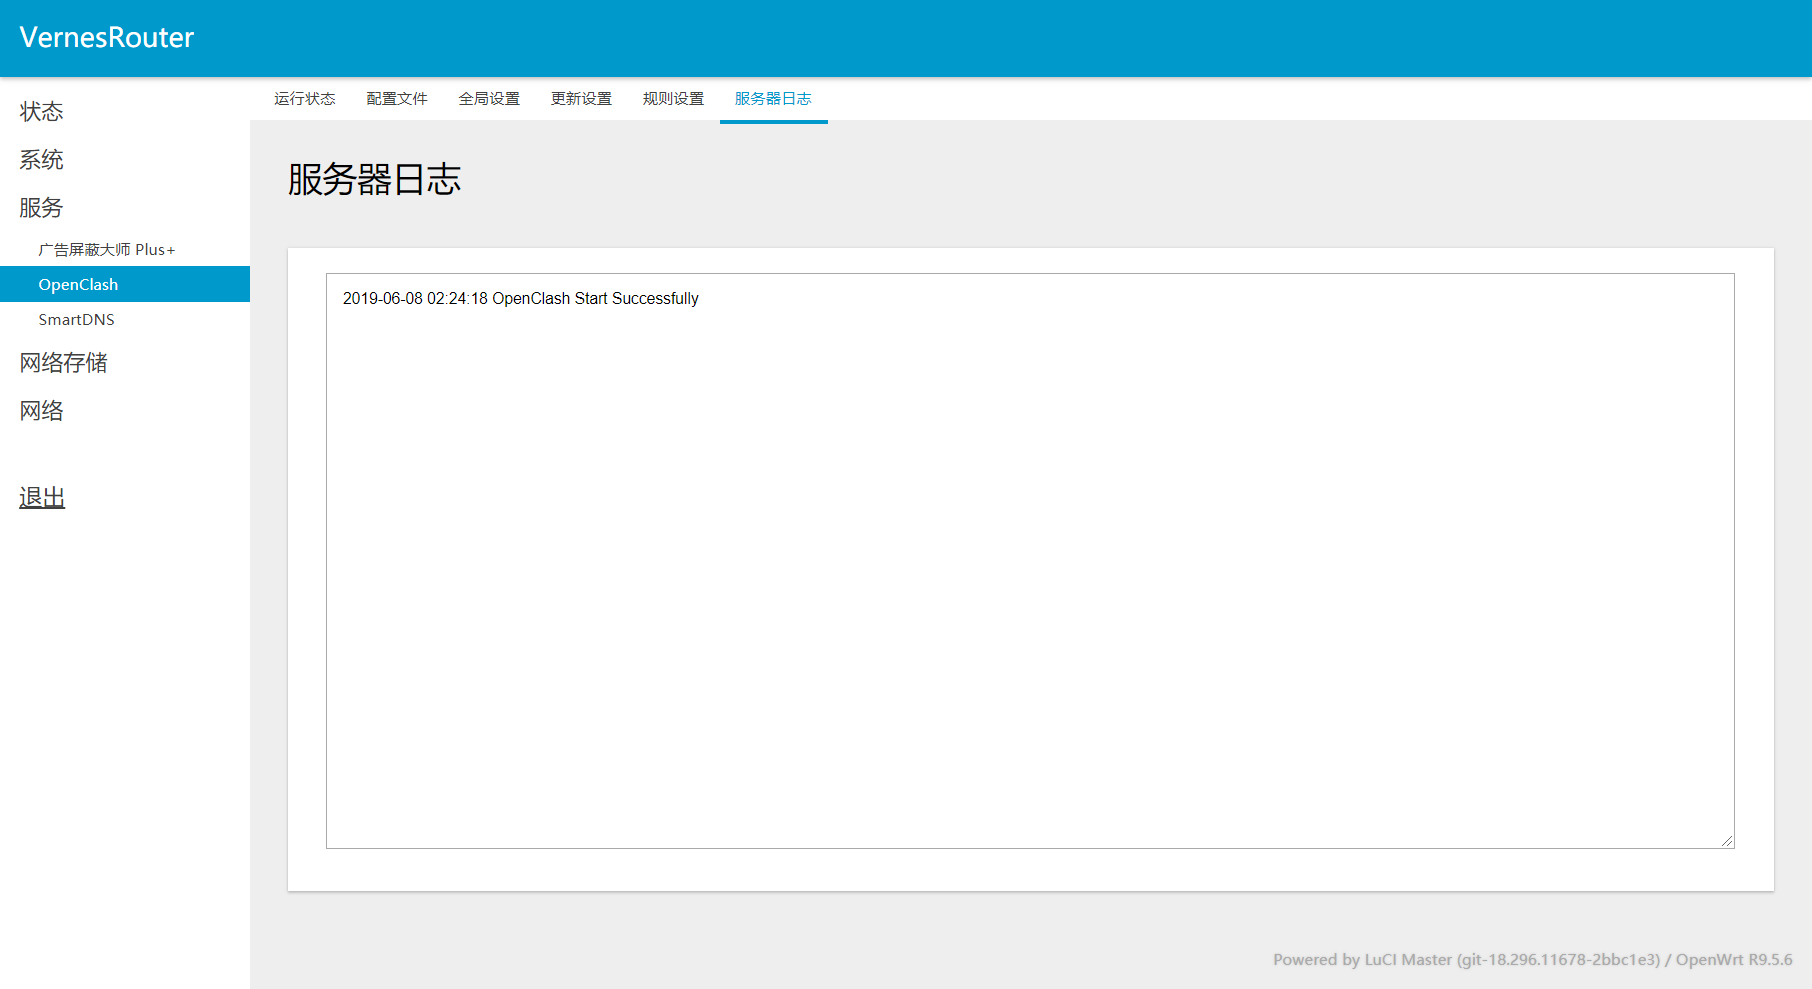
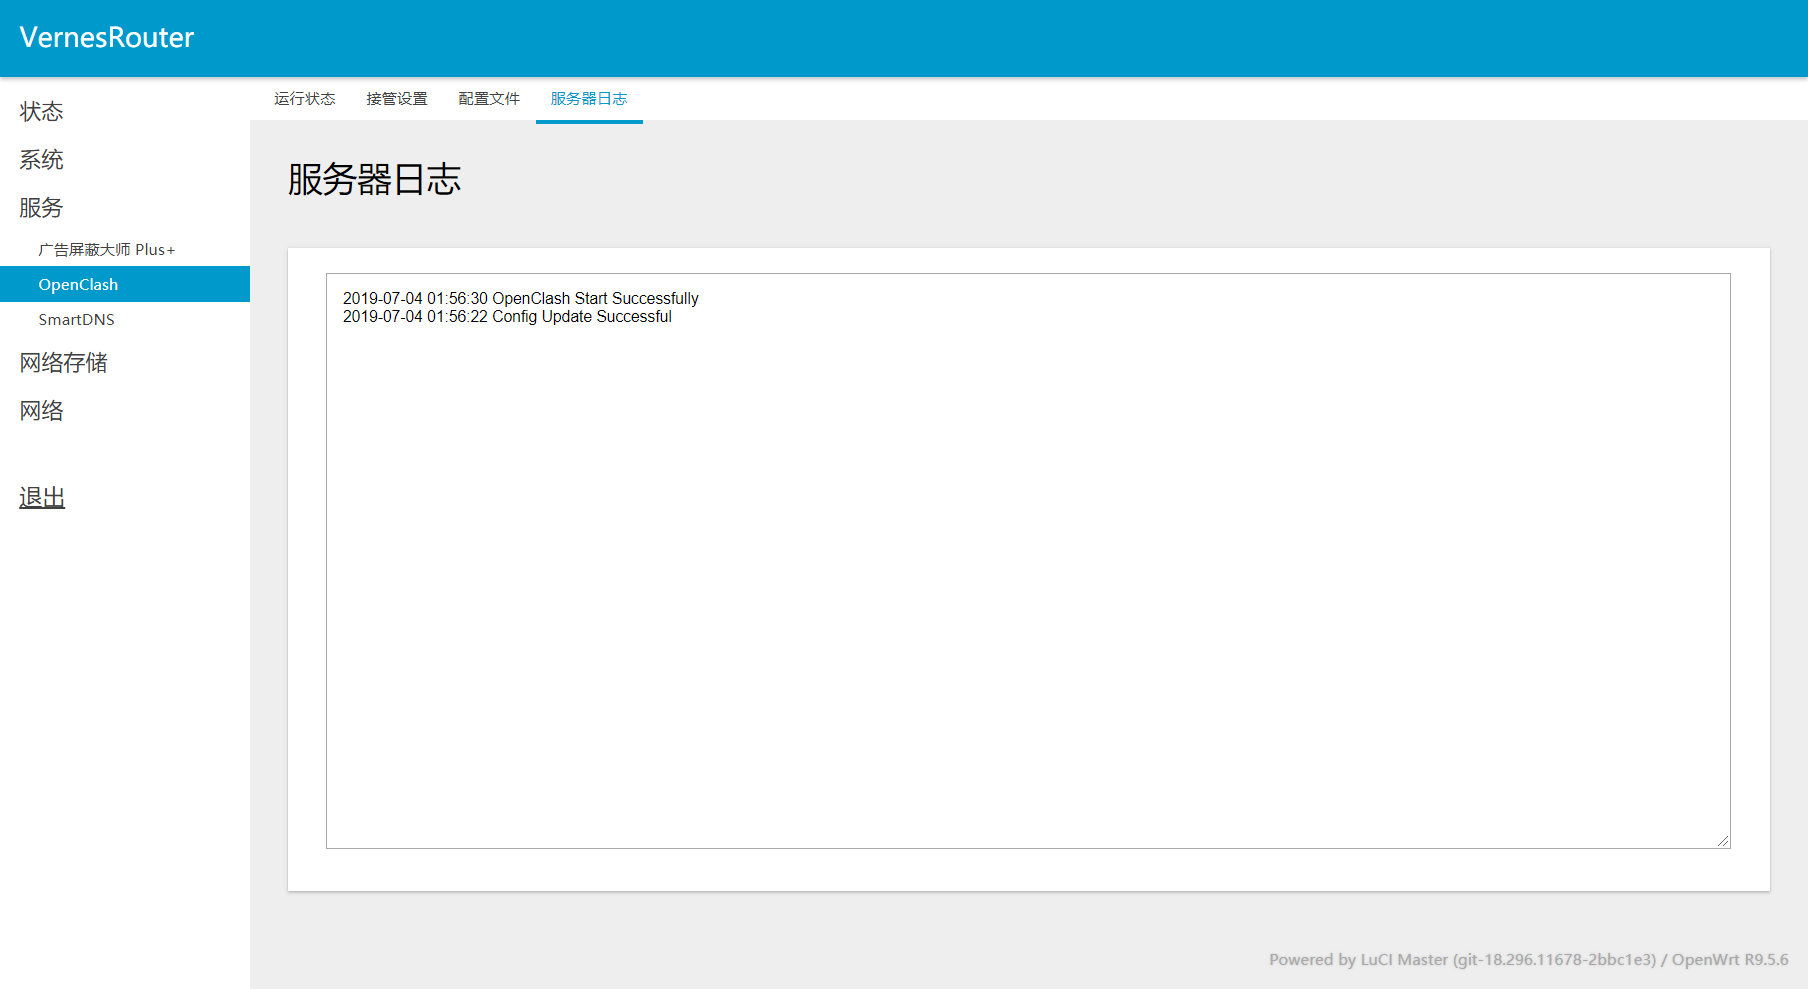
Preview update

diff --git a/README.md b/README.md
@@ -26,24 +26,14 @@
     <img src="https://github.com/vernesong/OpenClash/raw/master/img/state.png">
 </p>
 
-* Config
-<p align="center">
-    <img src="https://github.com/vernesong/OpenClash/raw/master/img/config.png">
-</p>
-
 * Settings
 <p align="center">
     <img src="https://github.com/vernesong/OpenClash/raw/master/img/settings.png">
 </p>
 
-* Updates
+* Config
 <p align="center">
-    <img src="https://github.com/vernesong/OpenClash/raw/master/img/update.png">
-</p>
-
-* Rules
-<p align="center">
-    <img src="https://github.com/vernesong/OpenClash/raw/master/img/rules.png">
+    <img src="https://github.com/vernesong/OpenClash/raw/master/img/config.png">
 </p>
 
 * Log
